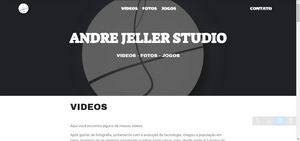
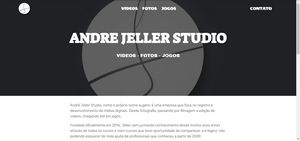
Update

diff --git a/press/press_br.html b/press/press_br.html
@@ -52,15 +52,15 @@
         
           <p class="font-weight-normal">
           Founding date: <br>
-          Janeiro ?, 2016 <p>
+          Janeiro ?, 2016 </p>
           
           <p class="font-weight-normal">
           Website: <br>
-          <a href="https://www.andrejeller.com" target="_blank"> andrejeller.com</a><p>
+          <a href="https://www.andrejeller.com" target="_blank"> andrejeller.com</a></p>
 
           <p class="font-weight-normal">
           Press / Business contact: <br>
-          <a href="mailto:contato@andrejeller.com">contato@andrejeller.com </a><p>
+          <a href="mailto:contato@andrejeller.com">contato@andrejeller.com </a></p>
           
           <p class="font-weight-normal">
           Social: <br>
@@ -96,7 +96,7 @@
             E depois de tudo isso, começou a faculdade de jogos e uma brecha na visão de que pode-se fazer coisas muito mais legais. Também encotrando uma maneira nova de viver a vida, vendo alegria em tudo, mas principalmente, rindo de tudo.
           </p>
 
-          <br><p class="h4" style="font-family:Georgia;" id="videos">Projects</p>
+          <br><p class="h4" style="font-family:Georgia;" id="projects">Projects</p>
           &emsp; &middot; <a href="" target="_blank"> Soda Attack </a> <br>
           &emsp; &middot; <a href="" target="_blank"> SplashP </a> <br>
           &emsp; &middot; <a href="" target="_blank"> Freedong </a> <br>
@@ -190,8 +190,7 @@
     </div>
     <hr> <p>...Sopa não é Janta...</p>
   
-    
-
+  
   </div>
 </div>
 

diff --git a/videos.html b/videos.html
@@ -64,11 +64,11 @@
     </nav>
 </section>
 
-<section class="engine"><a href="https://mobirise.info/l">free web templates</a></section><section class="cid-qMiyt7dfGJ mbr-parallax-background" id="header2-5s">
+<section class="engine"><a href="https://mobirise.info/l">free web templates</a></section><section class="cid-qMiyt7dfGJ mbr-parallax-background" id="header2-5s" style="background-image: url(assets/images/videos.site-633x377.png); background-size: cover;">
 
     
 
-    <div class="mbr-overlay" style="opacity: 0.7; background-color: rgb(35, 35, 35);"></div>
+    <div class="mbr-overlay" style="opacity: 0.7; background-color: rgb(35, 35, 35); "></div>
 
     <div class="container align-center">
         <div class="row justify-content-md-center">
